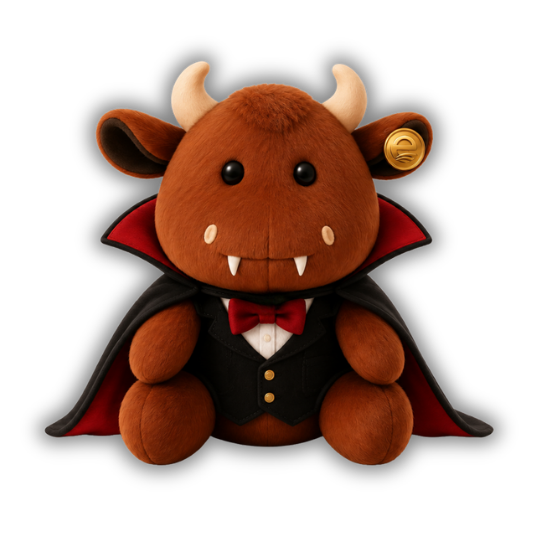
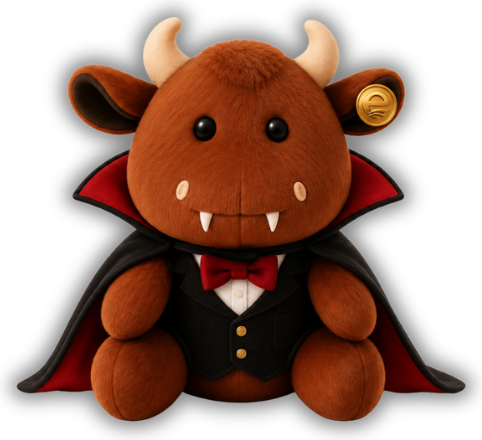
style: alinha título, cartão e cabeçalho no desktop e no celular
Recorta a margem transparente do título e do mascote para que fiquem na mesma margem do logo e dos textos. O cartão do evento passa a alinhar com o topo do título e não pula quando o resultado carrega. No celular, logo e botão ficam na mesma linha, os espaços diminuem para o cartão aparecer na primeira tela, e o mascote do painel fica ao lado do título.

diff --git a/app/globals.css b/app/globals.css
@@ -25,15 +25,16 @@ button, select, input { font: inherit; }
 :focus-visible { outline: 3px solid var(--green); outline-offset: 3px; }
 
 .wrap { width: 100%; max-width: 1240px; margin: 0 auto; padding: 0 24px; }
-.top { display: flex; flex-wrap: wrap; gap: 16px; justify-content: space-between; align-items: center; padding-top: 28px; }
+.top { display: flex; gap: 16px; justify-content: space-between; align-items: center; padding-top: 28px; }
 .logo { height: 32px; width: auto; display: block; }
 .pill { display: inline-flex; align-items: center; gap: 8px; min-height: 44px; padding: 0 20px; border-radius: 999px; border: 2px solid var(--ink); font-weight: 700; font-size: 15px; text-decoration: none; background: transparent; color: var(--ink); cursor: pointer; }
 .pill.solid { background: var(--green); color: var(--cream); border-color: var(--green); }
 .count { display: inline-flex; align-items: center; justify-content: center; min-width: 24px; height: 24px; padding: 0 6px; border-radius: 999px; background: var(--ink); color: var(--sand); font-size: 13px; }
 
-.hero { display: flex; flex-wrap: wrap; gap: 48px; align-items: center; padding: 40px 0 64px; }
-.hero-text { flex: 1 1 420px; min-width: 0; display: flex; flex-direction: column; gap: 18px; }
-.titulo-img { width: 100%; max-width: 520px; height: auto; margin-left: -12px; }
+/* Cartão alinhado ao topo do título, para não pular quando o conteúdo do evento carrega */
+.hero { display: flex; flex-wrap: wrap; gap: 48px; align-items: flex-start; padding: 48px 0 64px; }
+.hero-text { flex: 1 1 420px; min-width: 0; display: flex; flex-direction: column; gap: 20px; }
+.titulo-img { display: block; width: 100%; max-width: 464px; height: auto; margin-bottom: 4px; }
 .lede { margin: 0; font-size: 22px; line-height: 1.4; font-weight: 600; max-width: 30ch; }
 .sub { margin: 0; font-size: 16px; line-height: 1.6; max-width: 46ch; }
 
@@ -100,7 +101,7 @@ button, select, input { font: inherit; }
 .painel-hero { display: flex; flex-wrap: wrap; gap: 24px; align-items: flex-end; justify-content: space-between; padding-top: 28px; }
 .painel-hero > div { padding-bottom: 36px; display: flex; flex-direction: column; gap: 10px; }
 .painel-hero p { margin: 0; font-size: 17px; font-weight: 500; max-width: 46ch; }
-.painel-hero img { width: 200px; height: auto; display: block; margin-bottom: -24px; }
+.painel-hero img { width: 180px; height: auto; display: block; }
 .tabs { display: flex; flex-wrap: wrap; gap: 8px; padding-top: 36px; }
 .tab { min-height: 44px; padding: 0 20px; border-radius: 999px; border: 2px solid var(--ink); background: transparent; color: var(--ink); font-weight: 700; font-size: 15px; cursor: pointer; }
 .tab[aria-pressed="true"] { background: var(--ink); color: var(--cream); }
@@ -130,3 +131,19 @@ button, select, input { font: inherit; }
 .decidir p { margin: 0; text-align: center; font-weight: 600; font-size: 16px; }
 .btn.verde { background: var(--green); }
 .prazo.mini { max-width: 760px; width: 100%; margin: 0 auto; }
+
+/* Celular: logo e botão na mesma linha, espaços menores para o cartão do evento subir */
+@media (max-width: 640px) {
+  .wrap { padding: 0 20px; }
+  .top { padding-top: 20px; gap: 12px; }
+  .logo { height: 28px; }
+  .pill { min-height: 40px; padding: 0 14px; font-size: 14px; }
+  .hero { gap: 28px; padding: 32px 0 48px; }
+  .hero-text { gap: 14px; }
+  .lede { font-size: 20px; }
+  .sub { font-size: 15px; }
+  .card, .trav { padding: 20px; border-radius: 24px; gap: 18px; }
+  .painel-hero { flex-wrap: nowrap; gap: 12px; padding-top: 24px; }
+  .painel-hero > div { padding-bottom: 24px; min-width: 0; }
+  .painel-hero img { width: 92px; flex: 0 0 92px; }
+}
